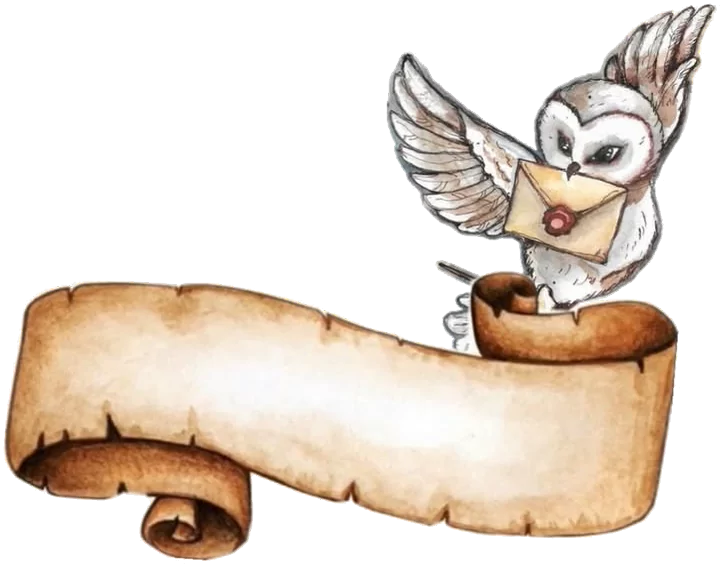
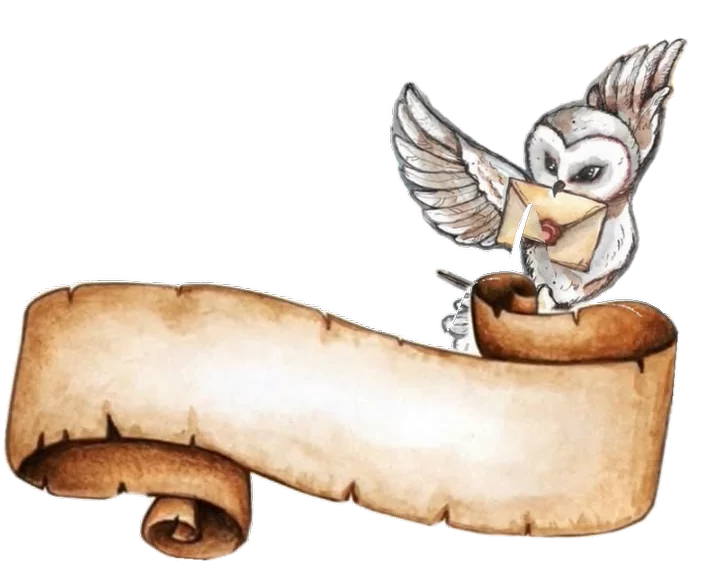
올빼미 0.9배 축소 + 제목을 양피지 세로 중앙 곡선에 정렬 (§7.19)
① 올빼미: 키잉본에서 열마다 「가장 아래 불투명 구간의 상단」으로 두루마리와의 경계를
   잡고(붙은 열은 보간·31열 평활), 그 위쪽만 떼어 **닿는 지점을 앵커로** 0.9배 축소해
   되붙였다. 앵커를 접점에 두어야 발치가 뜨지 않는다. 프리멀티플라이드 이중선형
   샘플링으로 가장자리 흰 테를 막았다(webp 46.7KB).
② 제목: 직선 baseline 을 버리고 필기면 중심선을 타는 textPath 로 바꿨다. 직선이면
   면이 오른쪽으로 더 처지는 만큼 글씨가 떠서 「Village」가 면 위쪽에 걸린다(실측 32px).
   면은 밝은 양피지의 **연결 성분**으로 잡아야 한다 — 밝기 문턱만 쓰면 앞말림·말린 끝단이
   섞여 중심이 엉뚱해지고, 실제로 그렇게 재어 과도하게 휜 경로가 한 번 나왔다.
   경로 M 83 372 Q 350 436 616 478 (기울기 11.2°·처짐 5px — 거의 직선).
③ 프로브에 titleRidesPath 를 더해 직선 회귀를 막고, 계약 테스트도 경로를 확인한다.

411개 통과, 배포 게이트 통과, 낮·밤·reduced 실브라우저 확인.

Claude-Session: https://claude.ai/code/session_01E229CDzjGRzDatvN4BxV1n

Changed region(s): [[0.5194, 0.0, 1.0, 0.5996], [0.1528, 0.4797, 0.1833, 0.5097]]

diff --git a/dashboard/app.js b/dashboard/app.js
@@ -2295,30 +2295,37 @@ function paintVillageNotes(frame) {
    코드로 그린 리본(2b7d29c)은 "허접"했다. 그림은 자산 파일이고 **제목 글씨는 굽지
    않는다** — 두루마리 면 위에 SVG 텍스트로 얹어 마을 라벨과 같은 글꼴(body 스택 상속)을
    쓰고 확대·번역·글꼴 변경에도 살아 있다(assets/README.md 「이미지에 글자 굽지 말 것」).
-   TEXT 의 좌표는 키잉본 캔버스(721×568) 기준 실측값 — 축을 따라 밝은 필기면이 이어지는
-   구간(x 0.12~0.85)의 중심과 그 면의 기울기 8°. 글씨가 왼쪽에 쏠려 보이면 폭(len)이 아니라
-   **중심(x)** 이 왼쪽에 있는 것이다 — 필기면은 올빼미 발치 오른쪽으로도 계속 이어진다. 흔들림은 CSS(`.vb-sway`)이고 reduced-motion 이면 CSS 가 세운다
+   TEXT 의 좌표는 키잉본 캔버스(721×568) 기준 실측값이다 — 필기면은 올빼미 발치 오른쪽으로도
+   이어지므로(x 0.115~0.855) 글씨가 왼쪽에 쏠려 보이면 폭이 아니라 경로가 짧은 것이고,
+   글씨가 면 위쪽으로 뜨면 경로가 직선인 것이다(면 중심선은 곡선 — 아래 text.d). 흔들림은 CSS(`.vb-sway`)이고 reduced-motion 이면 CSS 가 세운다
    (JS 분기 없음 — 정지 이미지는 그 자체로 무모션이다). 위치·폭은 겹침을 피해 고른 값
    (오른쪽 끝 24% < 여관 안내판 24.3%). */
 const VILLAGE_BANNER = {
   x: 5, y: 2.5, w: 19, title: "Korea Post Village",
   src: "assets/village-banner.webp",
   vb: [721, 568],                                   // 키잉본 캔버스(= 이미지 종횡비)
-  text: { x: 349, y: 409, len: 500, size: 52, rot: 8 },
+  /* 제목은 **양피지 필기면의 세로 중심선**을 타는 경로에 얹는다. 직선(8°)으로 두면 면이
+     오른쪽으로 더 처지는 만큼 글씨가 위로 떠서 「Village」가 면 위쪽에 걸린다(실측 32px).
+     면은 밝은 양피지의 **연결 성분**으로 잡아야 한다 — 밝기 문턱만 쓰면 앞말림·말린 끝단이
+     섞여 중심이 엉뚱해진다. d 는 그 성분의 열별 (상+하)/2 를 2차 적합하고 캡높이 절반
+     (0.36em ≈ 19px)만큼 내린 베이스라인이며, 포물선이라 2차 베지에 한 조각으로 정확하다
+     (기울기 11.2°·처짐 5px — 거의 직선이다. 크게 휘면 잘못 잰 것이다).
+     그림을 갈면 이 경로를 다시 재야 한다. */
+  text: { d: "M 83 372 Q 350 436 616 478", len: 500, size: 52 },
 };
 
 function villageBannerSvg() {
   const t = VILLAGE_BANNER.title;
   const [vw, vh] = VILLAGE_BANNER.vb;
   const x = VILLAGE_BANNER.text;
-  const common = `x="${x.x}" y="${x.y}" text-anchor="middle" textLength="${x.len}" `
-    + `lengthAdjust="spacingAndGlyphs" font-size="${x.size}" font-weight="800" letter-spacing=".5"`;
+  const run = `<textPath href="#vb-line" startOffset="50%" textLength="${x.len}" `
+    + `lengthAdjust="spacingAndGlyphs">${t}</textPath>`;
+  const common = `text-anchor="middle" font-size="${x.size}" font-weight="800" letter-spacing=".5"`;
   return `<svg viewBox="0 0 ${vw} ${vh}" role="img" aria-label="${t}">
-  <g transform="rotate(${x.rot} ${x.x} ${x.y})">
-    <text ${common} y="${x.y + 3}" fill="#7a5024" opacity=".28">${t}</text>
-    <text ${common} fill="#5b3a1f" stroke="#fdf6e6" stroke-width="3.2"
-          stroke-linejoin="round" paint-order="stroke">${t}</text>
-  </g>
+  <defs><path id="vb-line" d="${x.d}"/></defs>
+  <g transform="translate(0,3)"><text ${common} fill="#7a5024" opacity=".28">${run}</text></g>
+  <text ${common} fill="#5b3a1f" stroke="#fdf6e6" stroke-width="3.2"
+        stroke-linejoin="round" paint-order="stroke">${run}</text>
 </svg>`;
 }
 

diff --git a/tests/dashboard_probe.js b/tests/dashboard_probe.js
@@ -3282,8 +3282,10 @@ safe("villageBanner", () => {
   const cap = b && b.querySelector(".vb-cap");
   const html = String((cap && cap.innerHTML) || "");
   r.capIsSvg = /^\s*<svg\b/.test(html);
-  /* 제목은 이미지에 굽지 않고 <text> 로 얹는다 — 굽으면 이 검사가 빈다 */
-  r.titleIsLiveText = new RegExp("<text[^>]*>" + P.VILLAGE_BANNER.title + "</text>").test(html);
+  /* 제목은 이미지에 굽지 않고 <text>/<textPath> 로 얹는다 — 굽으면 이 검사가 빈다 */
+  r.titleIsLiveText = html.includes(">" + P.VILLAGE_BANNER.title + "<") && /<text\b/.test(html);
+  /* 면 중심선을 타는 경로가 있어야 한다(직선 baseline 으로 되돌리면 글씨가 면 위로 뜬다) */
+  r.titleRidesPath = /<path id="vb-line"/.test(html) && /<textPath[^>]*href="#vb-line"/.test(html);
   r.noMedia = !/<(video|iframe|object)\b/.test(html);
   r.swayWraps = !!(b && b.querySelector(".vb-sway img") && b.querySelector(".vb-sway .vb-cap"));
   r.ariaHidden = !!(b && b.getAttribute("aria-hidden") === "true");

diff --git a/tests/test_dashboard_ux.py b/tests/test_dashboard_ux.py
@@ -2774,6 +2774,8 @@ def test_village_banner_mounts_once_with_live_title(probe):
     assert v["imgAltEmpty"] is True, "장식 그림인데 alt 가 비어 있지 않다"
     assert v["capIsSvg"] is True and v["titleIsLiveText"] is True, (
         "제목이 살아 있는 SVG 텍스트가 아니다 — 이미지에 구웠는지 확인할 것")
+    assert v["titleRidesPath"] is True, (
+        "제목이 면 중심선 경로(vb-line)를 타지 않는다 — 직선 baseline 이면 글씨가 면 위로 뜬다")
     assert v["noMedia"] is True, "배너에 video 가 들어갔다"
     assert v["swayWraps"] is True, "그림과 제목이 같은 흔들림 래퍼(.vb-sway) 안에 있지 않다"
     assert v["ariaHidden"] is True and v["positioned"] is True, "aria-hidden 또는 위치·폭이 상수와 다르다"

diff --git a/tests/test_contract.py b/tests/test_contract.py
@@ -704,6 +704,8 @@ def test_village_banner_asset_and_live_title():
     assert '"assets/village-banner.webp"' in js, "app.js 가 배너 그림을 가리키지 않습니다"
     svg_fn = _fn("villageBannerSvg")
     assert "<text" in svg_fn and "${t}" in svg_fn, "제목이 살아 있는 SVG 텍스트가 아닙니다(이미지에 굽지 말 것)"
+    assert 'id="vb-line"' in svg_fn and "textPath" in svg_fn, (
+        "제목이 면 중심선 경로를 타지 않습니다 — 직선 baseline 은 오른쪽에서 면 위로 뜹니다")
     assert "font-family" not in svg_fn, "배너 제목이 글꼴을 따로 지정합니다 — 마을 라벨과 어긋납니다"
     mount = _fn("mountVillageBanner")
     assert "villageBannerSvg()" in mount and "VILLAGE_BANNER.src" in mount, (

diff --git a/CLAUDE.md b/CLAUDE.md
@@ -474,9 +474,13 @@ JSON을 추가/삭제하면 **양쪽을 같이 고쳐야 한다.**
   사용자 제공 수채 일러스트(편지 문 올빼미 + 두루마리)를 흰 배경만 키잉한 `assets/village-banner.webp`
   를 지도 좌상단 하늘 x 5%·y 2.5%·폭 19% 에 얹는다(오른쪽 끝 24% < 여관 안내판 24.3% — 실측).
   **제목은 그림에 굽지 않는다** — `villageBannerSvg()` 가 두루마리 면 위에 SVG 텍스트로 얹고,
-  글꼴을 지정하지 않아 마을 라벨과 같은 body 스택을 상속한다. 좌표 `VILLAGE_BANNER.text`
-  (면 중심·기울기 8°)와 `vb`(키잉본 캔버스 721×568)는 **한 몸**이라 그림을 갈면 함께 고쳐야
-  한다(종횡비가 다르면 제목이 두루마리를 벗어난다). 흔들림은 CSS(`.vb-sway` — 그림과 제목을
+  글꼴을 지정하지 않아 마을 라벨과 같은 body 스택을 상속한다. **직선 baseline 을 쓰지 말 것** —
+  면이 오른쪽으로 더 처져 글씨가 위로 뜬다(실측 32px). `VILLAGE_BANNER.text.d` 는 밝은
+  양피지의 **연결 성분**으로 잡은 필기면의 열별 중심을 2차 적합해 캡높이 절반만큼 내린
+  경로이고(기울기 11.2°·처짐 5px), `vb`(키잉본 캔버스 721×568)와 **한 몸**이라 그림을 갈면
+  함께 다시 재야 한다(종횡비가 다르면 제목이 두루마리를 벗어난다). 올빼미 크기는 그림에
+  구워져 있다 — 키잉본에서 두루마리와 닿는 지점을 앵커로 축소해 다시 인코딩한다(2026-09-08
+  0.9배). 흔들림은 CSS(`.vb-sway` — 그림과 제목을
   한 래퍼로 묶어 같이 움직인다)이고 reduced-motion 이면 CSS 가 세운다 — **JS 분기 없음**
   (정지 그림은 그 자체로 무모션). 클릭 통과. 셰이드는 innerHTML 을 파싱하지 않으므로 프로브
   `villageBanner` 는 마크업 문자열로 「제목이 살아 있는 텍스트인지」를 본다. 폐기된 두 판

diff --git a/docs/HANDOVER.md b/docs/HANDOVER.md
@@ -2476,6 +2476,15 @@ webm/webp 를 삭제하고 `villageBannerSvg()` 가 SVG 한 장을 그린다 —
 「그림 자산 + 살아 있는 제목」 기준으로 바꿨다(총 411 불변) — 제목을 이미지에 구우면
 `titleIsLiveText` 가 빨간불을 낸다.
 
+**2026-09-08 — 제목 확대·중심 이동, 이어서 올빼미 축소와 제목의 세로 중앙 정렬.** ① "글씨가
+왼쪽에 쏠렸다" → 원인은 폭이 아니라 중심이었다(필기면은 올빼미 발치 오른쪽으로도 이어진다).
+중심 (255,396)→(349,409)·폭 340→500·크기 38→52. ② "올빼미를 살짝 줄이고, 제목이 점점 올라가
+Village 가 면 위쪽에 걸린다" → 올빼미는 키잉본에서 0.9배(접점 앵커·프리멀티플라이드 샘플링,
+46.7KB), 제목은 직선 baseline 을 버리고 **필기면 연결 성분의 중심선**을 탄 `textPath` 로 바꿨다
+(`M 83 372 Q 350 436 616 478` — 기울기 11.2°·처짐 5px). 중간 단계에서 「밝은 면」만으로 재
+과도하게 휜 경로가 한 번 나왔고, 연결 성분으로 다시 재어 바로잡았다(실브라우저 확인).
+프로브에 `titleRidesPath` 를 더해 직선 회귀를 막는다.
+
 ## 8. 그 다음 — 모델 랩 (기능 4)
 
 - 모델을 **표준 인터페이스**로 정의: "입력 = t시점까지의 데이터 → 출력 = 특정 변수의 k개월 후 전망".
